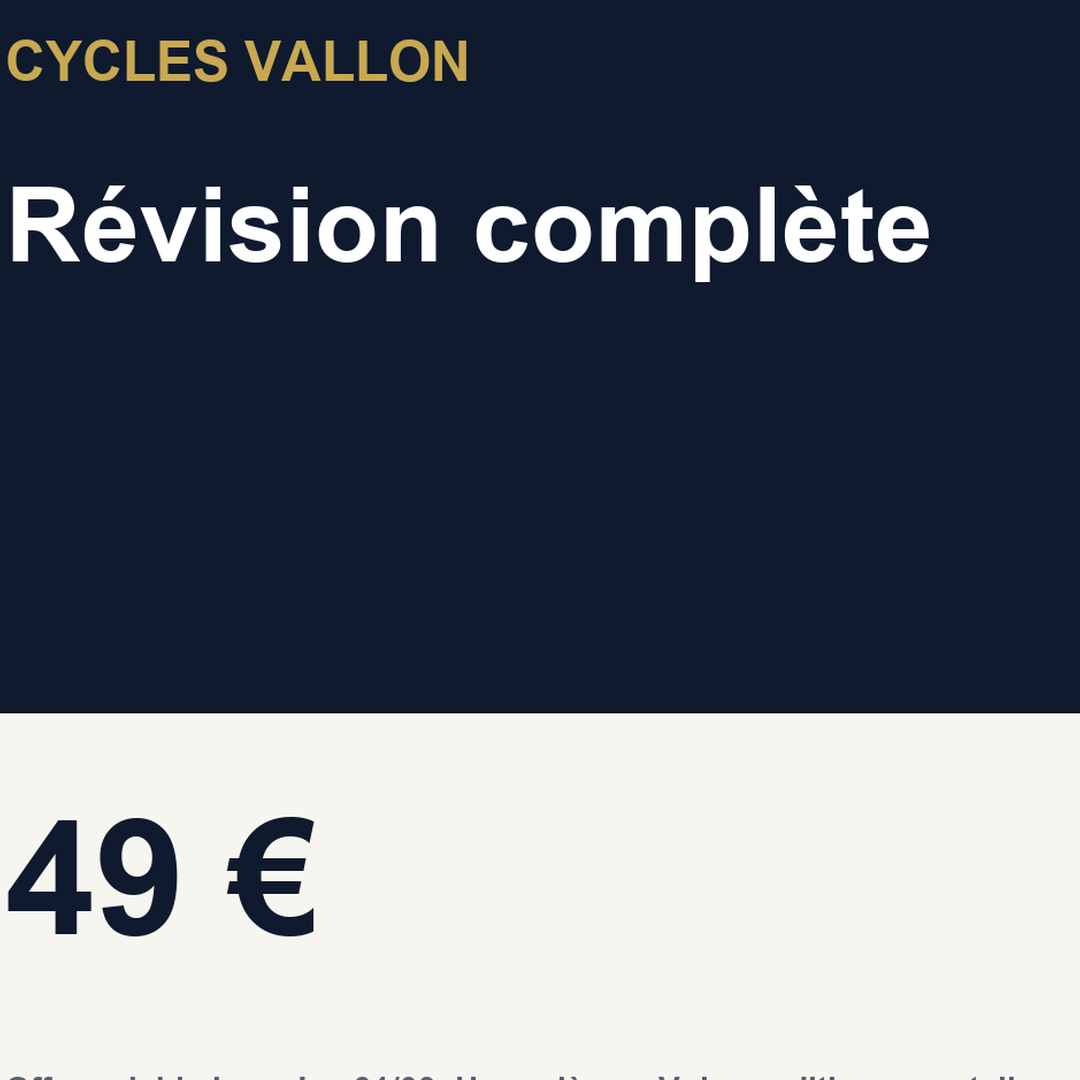
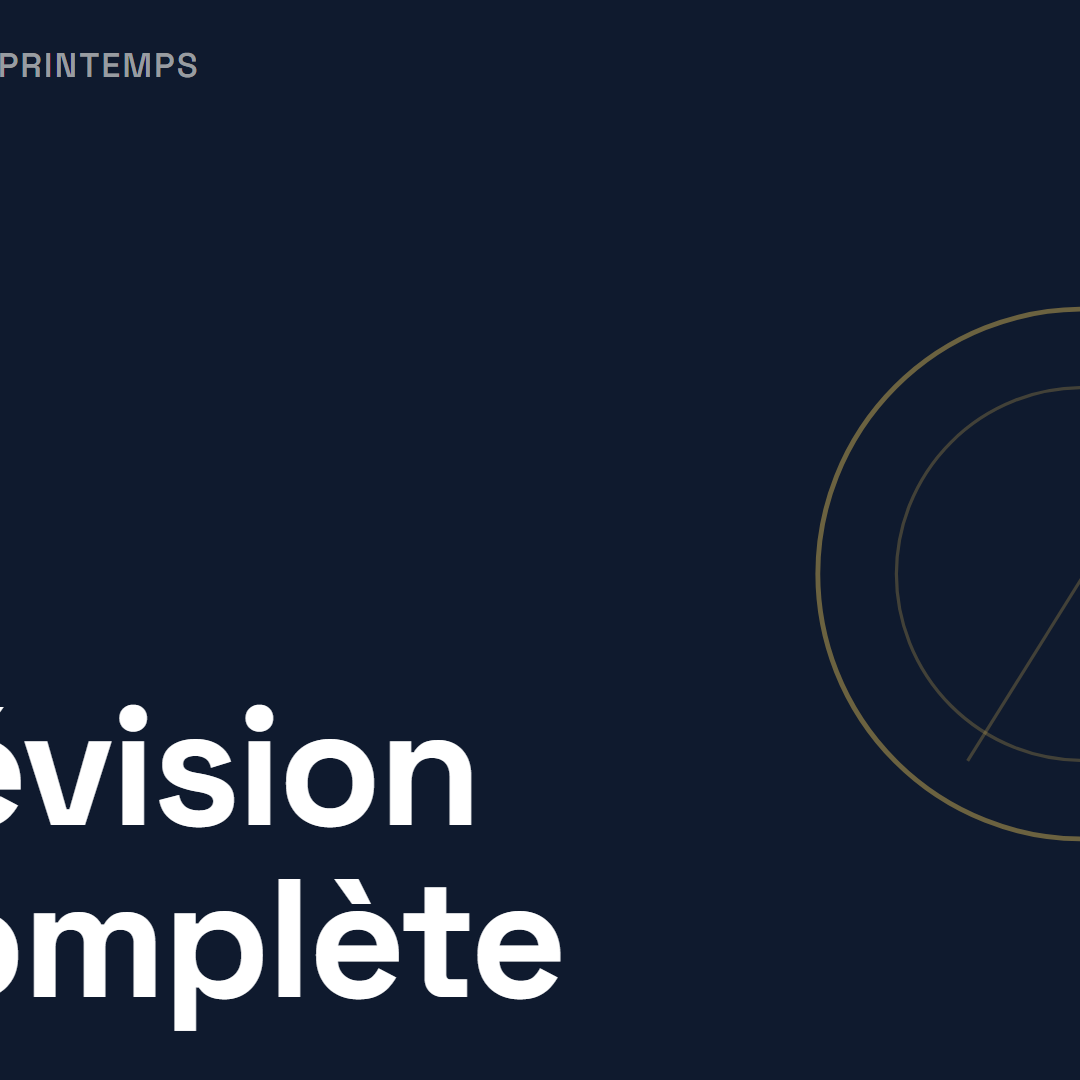
Le comparateur du jour 19 : il se tient, et la difference se voit
- La poignee suivait le curseur apres un simple clic : sans capture de
  pointeur, le relachement se perd des que la souris sort du cadre et l'etat
  « en train de glisser » ne redescend jamais. `setPointerCapture` amarre les
  trois evenements a la boite, avec pointercancel et blur en filet.
- Les deux visuels se ressemblaient trop : le meme prix, en plus gros. Refaits
  pour que le recadrage automatique montre ce qu'il casse vraiment : la marque
  sort du cadre, le titre est coupe en deux, le prix et la mention legale ont
  disparu. C'est le propos de l'exercice.
- L'instruction « Tirez la poignee » disait un geste ; la phrase dit maintenant
  ce qu'on regarde, et le geste vient tout seul.

diff --git a/src/components/academy/LeCompte.tsx b/src/components/academy/LeCompte.tsx
@@ -743,20 +743,33 @@ function Comparateur({ c }: { c: Jour30Copy['compte']['j19'] }) {
     [set]
   );
 
+  // ⚠ Le relachement se perd sans capture de pointeur : si le doigt ou la
+  // souris sort du cadre, de la fenetre ou passe sur une image, le `pointerup`
+  // part ailleurs et `drag` reste vrai. La poignee suivait alors le curseur
+  // sans qu'on appuie, ce qui donne l'impression d'un composant casse (Paul,
+  // 29/08/2026). `setPointerCapture` amarre les trois evenements a la boite.
   useEffect(() => {
+    const b = box.current;
+    if (!b) return;
     const move = (e: PointerEvent) => {
       if (!drag.current) return;
       fromEvent(e);
       if (e.cancelable) e.preventDefault();
     };
-    const up = () => {
+    const stop = () => {
       drag.current = false;
     };
-    window.addEventListener('pointermove', move, { passive: false });
-    window.addEventListener('pointerup', up);
+    b.addEventListener('pointermove', move, { passive: false });
+    b.addEventListener('pointerup', stop);
+    b.addEventListener('pointercancel', stop);
+    b.addEventListener('lostpointercapture', stop);
+    window.addEventListener('blur', stop);
     return () => {
-      window.removeEventListener('pointermove', move);
-      window.removeEventListener('pointerup', up);
+      b.removeEventListener('pointermove', move);
+      b.removeEventListener('pointerup', stop);
+      b.removeEventListener('pointercancel', stop);
+      b.removeEventListener('lostpointercapture', stop);
+      window.removeEventListener('blur', stop);
     };
   }, [fromEvent]);
 
@@ -770,6 +783,12 @@ function Comparateur({ c }: { c: Jour30Copy['compte']['j19'] }) {
         className="relative max-w-[560px] touch-pan-y select-none overflow-hidden rounded-carte border border-filet-nuit bg-salle"
         onPointerDown={(e) => {
           drag.current = true;
+          // La boite garde le pointeur jusqu'au relachement, ou qu'il aille.
+          try {
+            e.currentTarget.setPointerCapture(e.pointerId);
+          } catch {
+            /* un navigateur qui refuse la capture garde l'ancien comportement */
+          }
           fromEvent(e);
         }}
       >

diff --git a/src/components/academy/copy.ts b/src/components/academy/copy.ts
@@ -324,7 +324,7 @@ const FR = {
     },
     j19: {
       phrase: 'On lui demande le visuel en trois formats. Pour hier.',
-      tirez: 'Tirez la poignée',
+      tirez: 'Faites glisser : à gauche le visuel fourni, à droite ce que donne un recadrage automatique.',
       fourni: 'Fourni',
       recadre: 'Recadré, détouré',
       comparer: 'Comparer les deux visuels',
@@ -978,7 +978,7 @@ const EN: Jour30Copy = {
     },
     j19: {
       phrase: 'She is asked for the visual in three formats. For yesterday.',
-      tirez: 'Drag the handle',
+      tirez: 'Drag across: the supplied visual on the left, what an automatic crop gives on the right.',
       fourni: 'Provided',
       recadre: 'Cropped, cut out',
       comparer: 'Compare the two visuals',
